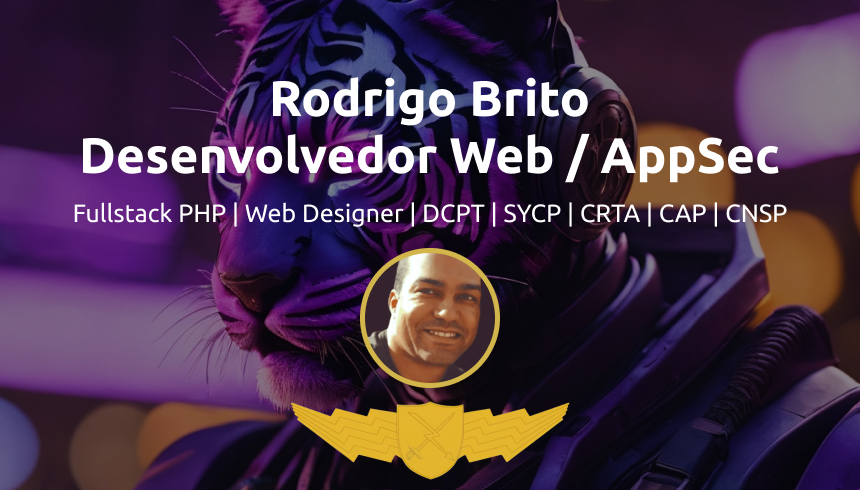
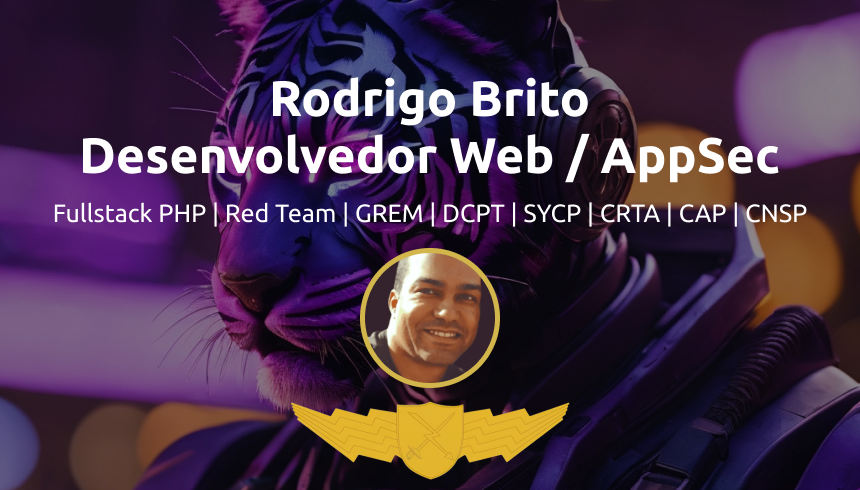
mod: add grem

Changed region(s): [[0.0605, 0.398, 0.9372, 0.4592]]

diff --git a/resources/views/site/home/index.blade.php b/resources/views/site/home/index.blade.php
@@ -11,7 +11,7 @@
             <canvas class="snow"></canvas>
             <header>
                 <h2 data-anime="400" class="fadeInDown">Rodrigo Brito <br>Desenvolvedor Web / AppSec</h2>
-                <p class="headline">FullStack PHP | Web Designer | DCPT | SYCP | CRTA | CAP | CNSP</p>
+                <p class="headline">FullStack PHP | Red Team | GREM | DCPT | SYCP | CRTA | CAP | CNSP</p>
                 <p data-anime="1200" class="fadeInDown">
                     <button data-go=".home_opt_in">
                         Conheça meu Portfólio</button>
@@ -64,6 +64,13 @@
             <h2>Certificações</h2>
         </header>
         <div class="fadeInScrool">
+            <article>
+                <h3>GREM</h3>                
+                <div>
+                    <img src="{{ asset('img/grem.webp') }}" alt="GREM" title="GREM" width="300" height="300" />
+                </div>
+                <p>GIAC Reverse Engineering Malware</p>
+            </article>
             <article>
                 <h3>DCPT</h3>                
                 <div>
